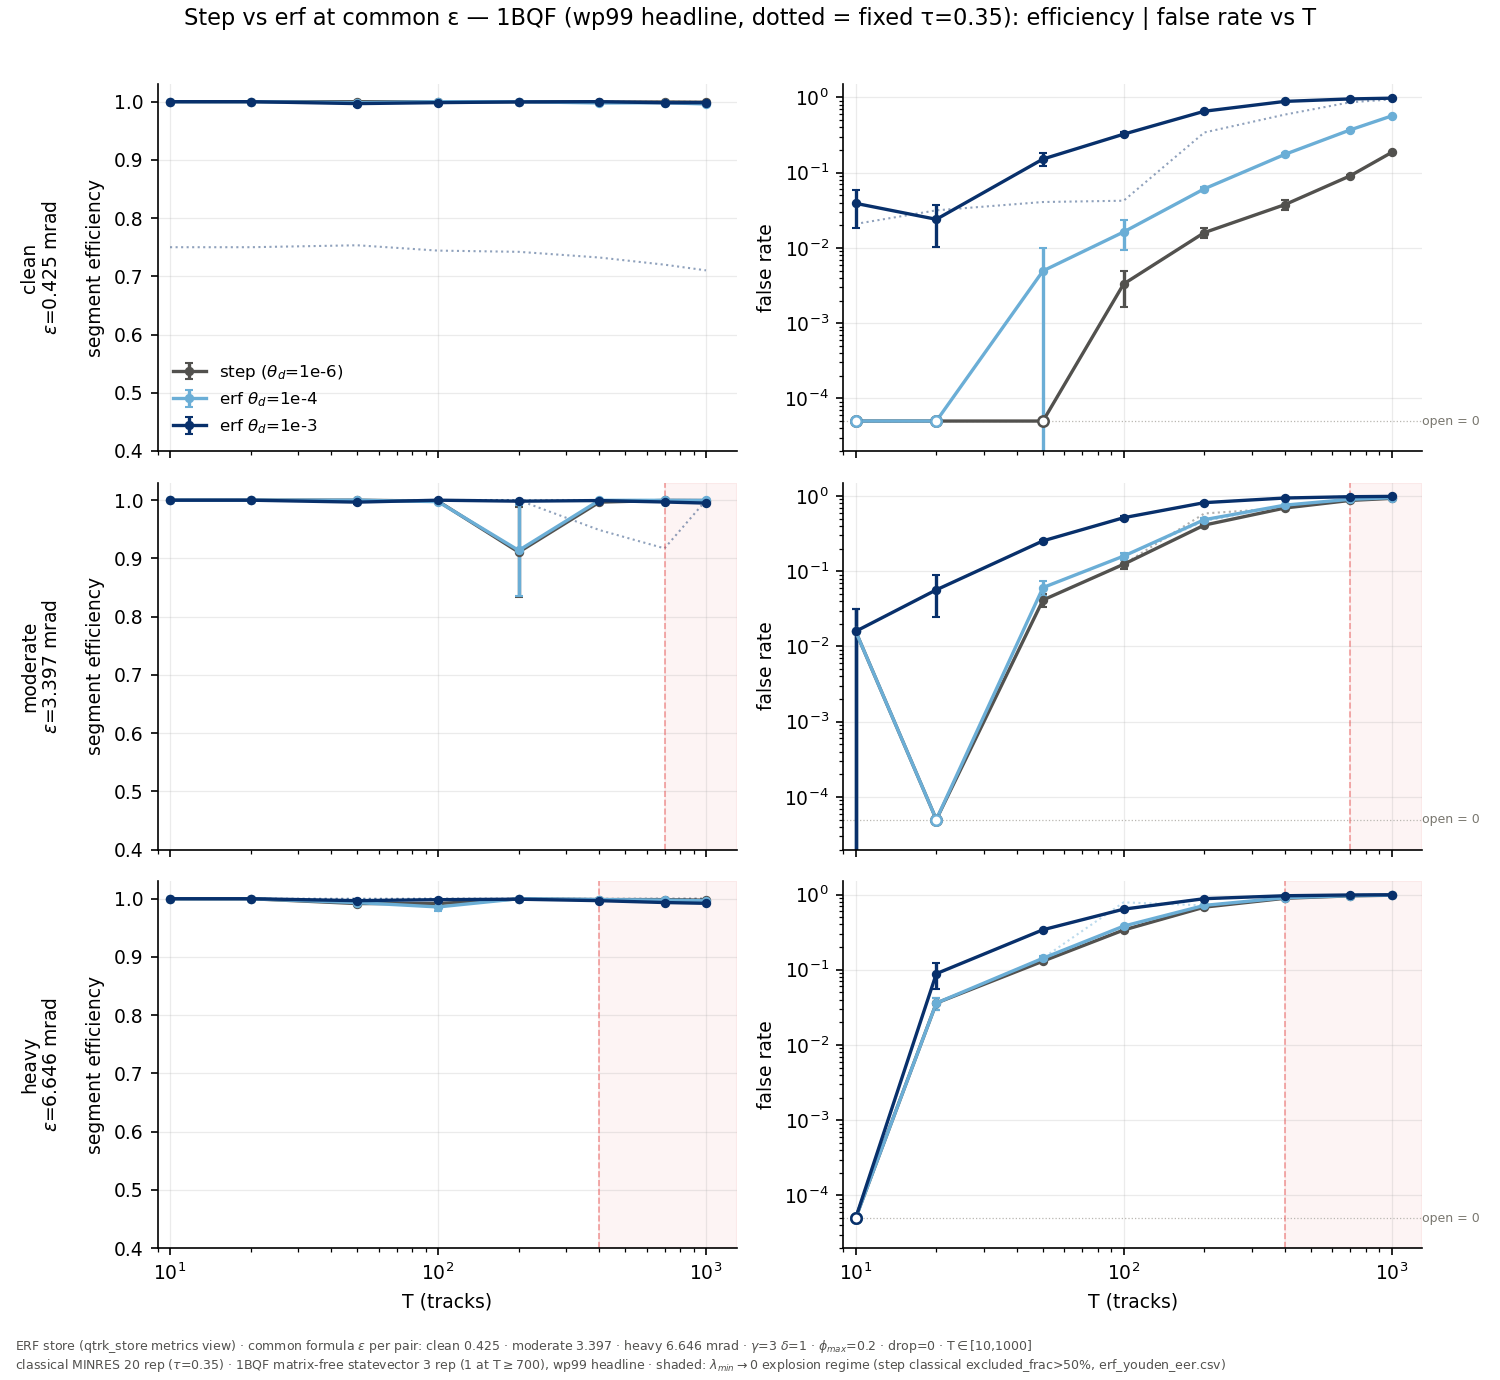
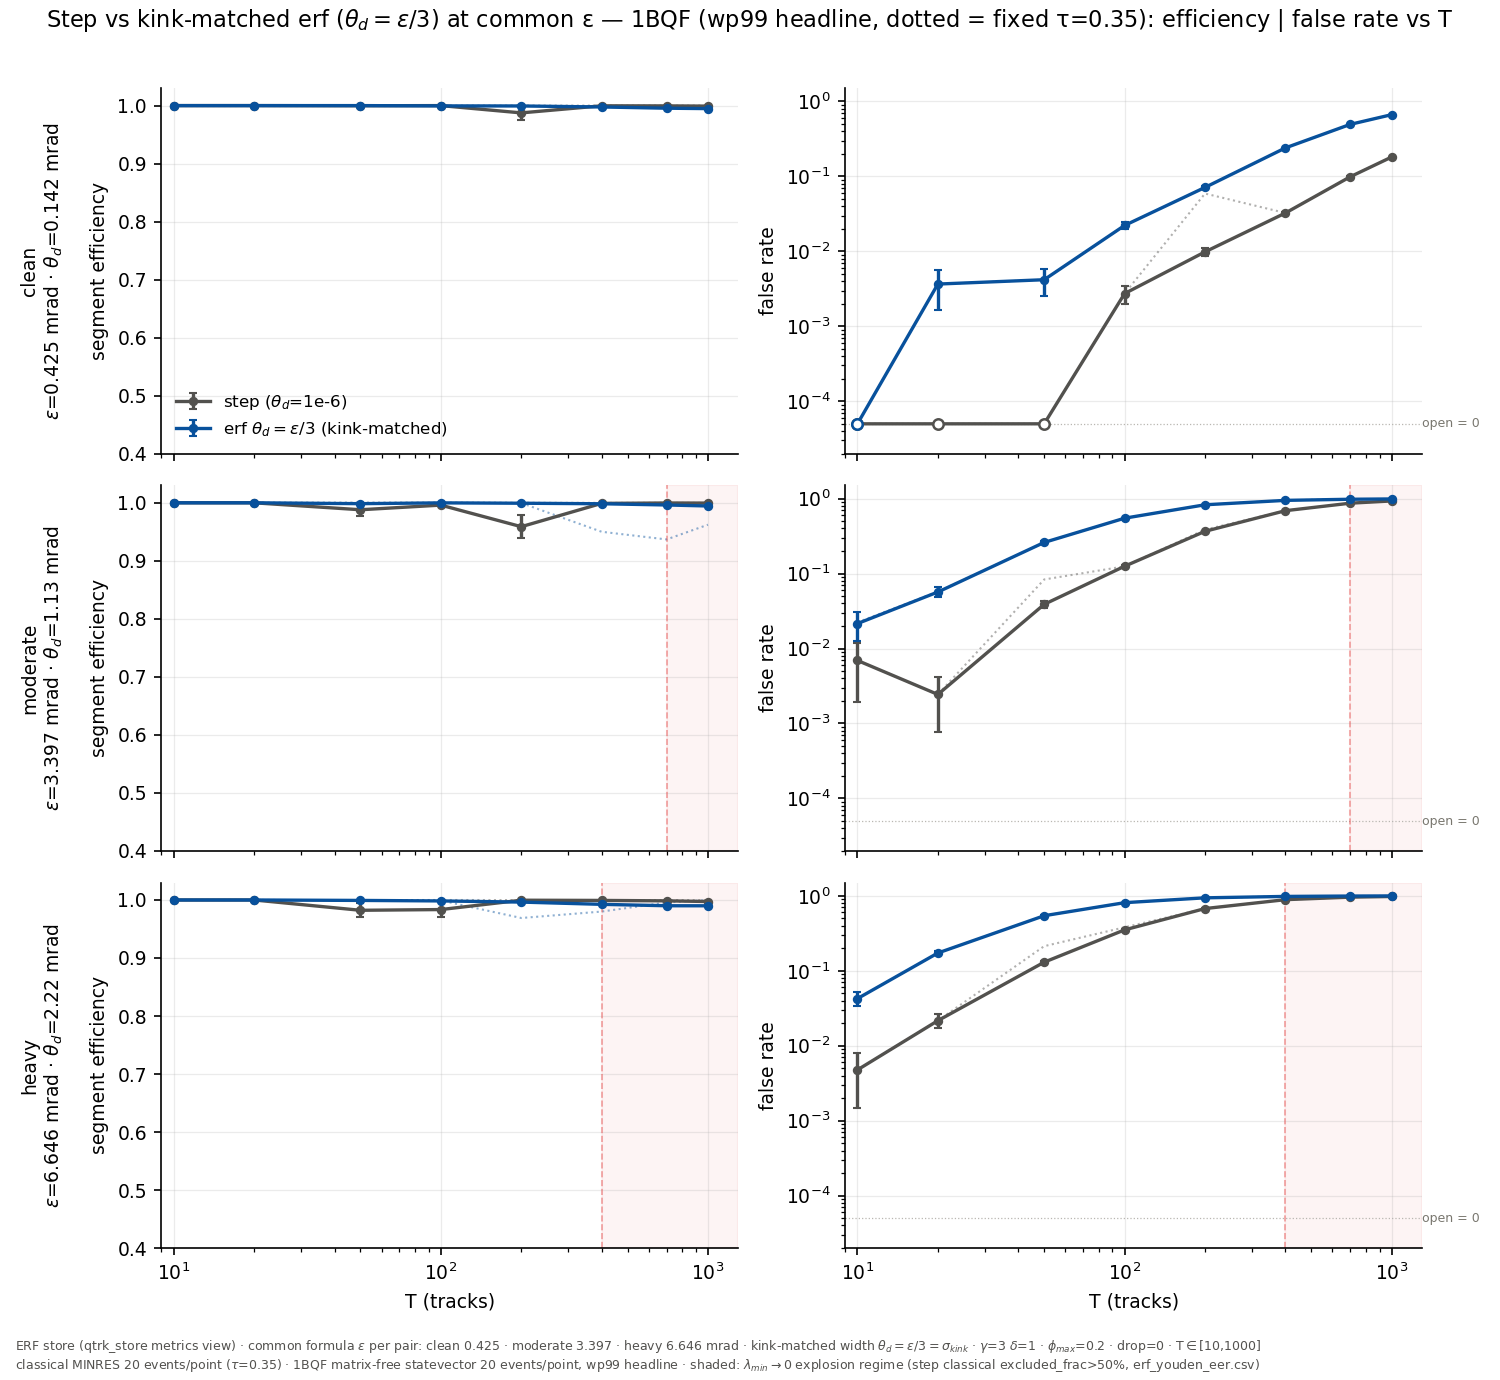
ERF: kink-matched width (theta_d = eps/3) + 20-rep quantum refresh
Step-vs-erf head-to-head refreshed at the physically meaningful erf width
theta_d = eps/3 = sigma_kink (the true RMS 3D kink angle), 20 events/point
for BOTH solvers (1BQF was 3). Manifest: 3 kink widths added to the ERF
erf_sigma grid (crossed with all pairs), quantum statevector reps 3 -> 20
uniform in T. Result: classical kink-erf >= step everywhere; 1BQF wp99
pays more false rate at every T/pair -> theta_d << eps rule confirmed.

diff --git a/Toy_Characterisation/ERF/step_vs_erf_store.py b/Toy_Characterisation/ERF/step_vs_erf_store.py
@@ -1,20 +1,21 @@
 #!/usr/bin/env python
-"""Step vs erf head-to-head at common epsilon: eff | far vs T, and sparsity scaling.
+"""Step vs kink-matched erf at common epsilon: eff | far vs T, and sparsity.
 
-Requested 2026-07-03: side-by-side segment efficiency and false rate with track
-count on the x-axis, step vs erf at a COMMON epsilon and reasonable erf widths,
-plus how the sparsity (A_nnz) scales for the two kernels.
+Requested 2026-07-03 (first pass, ad-hoc widths) and refined 2026-07-04: the
+erf kernel is shown at its PHYSICALLY MEANINGFUL width, theta_d = eps/3.  The
+acceptance is eps = 3*sigma_kink (compute_epsilon, scale=3), so eps/3 IS the
+true RMS 3D kink angle — the erf soft edge then matches the actual angular
+smearing of true-segment kinks instead of an arbitrary width.  Per noise pair
+(same formula epsilon for step and erf — common-epsilon by construction):
 
-Everything is read from the qtrk_store metrics view (per-event rows; A_nnz is
-recorded per solve, so sparsity needs no A rebuilds). Within each ERF noise pair
-the step regression point (theta_d = 1e-6) and every erf width share the SAME
-formula epsilon — the comparison is common-epsilon by construction:
-  clean    (sigma_scatt=1e-4, sigma_res=0)     -> eps = 0.425 mrad
-  moderate (3e-4, 0.01 mm)                     -> eps = 3.397 mrad
-  heavy    (5e-4, 0.02 mm)                     -> eps = 6.646 mrad
+  clean    (sigma_scatt=1e-4, sigma_res=0)   eps=0.425 mrad  theta_d=0.1416 mrad
+  moderate (3e-4, 0.01 mm)                   eps=3.397 mrad  theta_d=1.1322 mrad
+  heavy    (5e-4, 0.02 mm)                   eps=6.646 mrad  theta_d=2.2153 mrad
 
-Kernels shown: step (theta_d=1e-6) vs erf theta_d = 1e-4 ("quantum pipeline"
-width) and 1e-3 ("resolution recovery" width).
+Data: 20 events per point for BOTH solvers (2026-07-04 20-rep quantum campaign;
+the first pass had only 3 quantum events per point).  Everything is read from
+the qtrk_store metrics view; A_nnz is recorded per solve, so sparsity needs no
+A rebuilds.
 
 Conventions: classical at the gamma-aware absolute tau = 0.35; 1BQF headline at
 the efficiency-first wp99 working point (fixed-tau curve kept faded, per the
@@ -28,6 +29,7 @@ figures/erf_sparsity_scaling.png, results/erf_stepvserf_summary.csv.
 from __future__ import annotations
 
 import os
+import re
 from pathlib import Path
 
 import numpy as np
@@ -42,20 +44,23 @@ HERE = Path(__file__).resolve().parent
 FIGS = HERE / "figures"
 RES = HERE / "results"
 
-PAIRS = [(1e-4, 0.0, "clean", 0.425), (3e-4, 0.01, "moderate", 3.397),
-         (5e-4, 0.02, "heavy", 6.646)]
-KERNELS = [(1e-6, "step ($\\theta_d$=1e-6)", "#52514e", "-"),
-           (1e-4, "erf $\\theta_d$=1e-4", "#6baed6", "-"),
-           (1e-3, "erf $\\theta_d$=1e-3", "#08306b", "-")]
+# (sigma_scatt, sigma_res, label, eps [mrad], kink width theta_d = eps/3)
+PAIRS = [(1e-4, 0.0, "clean", 0.425, 1.4159802e-4),
+         (3e-4, 0.01, "moderate", 3.397, 1.1322446e-3),
+         (5e-4, 0.02, "heavy", 6.646, 2.2153451e-3)]
+
+STEP_TD = 1e-6                      # step reference (erf at negligible width)
+C_STEP, C_KINK = "#52514e", "#08519c"
 
 FAR_FLOOR = 5e-5   # log-axis display floor; a measured far=0 sits here as an OPEN marker
 
 FOOT = (r"ERF store (qtrk_store metrics view) · common formula $\varepsilon$ per pair: "
-        "clean 0.425 · moderate 3.397 · heavy 6.646 mrad · "
-        r"$\gamma$=3 $\delta$=1 · $\phi_{max}$=0.2 · drop=0 · T$\in$[10,1000]"
+        "clean 0.425 · moderate 3.397 · heavy 6.646 mrad · kink-matched width "
+        r"$\theta_d=\varepsilon/3=\sigma_{kink}$ · $\gamma$=3 $\delta$=1 · "
+        r"$\phi_{max}$=0.2 · drop=0 · T$\in$[10,1000]"
         "\n"
-        "classical MINRES 20 rep ($\\tau$=0.35) · 1BQF matrix-free statevector 3 rep "
-        "(1 at T$\\geq$700), wp99 headline · shaded: $\\lambda_{min}\\to0$ explosion regime "
+        "classical MINRES 20 events/point ($\\tau$=0.35) · 1BQF matrix-free statevector "
+        "20 events/point, wp99 headline · shaded: $\\lambda_{min}\\to0$ explosion regime "
         "(step classical excluded_frac>50%, erf_youden_eer.csv)")
 
 plt.rcParams.update({
@@ -73,19 +78,33 @@ def footer(fig):
 def load_view():
     store = os.environ.get("QTRK_STORE", "/data/bfys/gscriven/qtrk_store")
     m = pd.read_csv(os.path.join(store, "manifest", "metrics.csv"))
-    erf = m[m.study == "ERF"].copy()
+    # membership via the `studies` column (token match), NOT `study`: shared
+    # cells are attributed to whichever study "owns" them and a `study==`
+    # filter silently drops them.
+    is_erf = m.studies.map(lambda s: "ERF" in re.split(r"[|,;\s]+", str(s)))
+    erf = m[is_erf].copy()
     erf["pair"] = [
-        next((lab for ss, sr, lab, _ in PAIRS
+        next((lab for ss, sr, lab, _, _ in PAIRS
               if abs(row.sigma_scatt - ss) < 1e-12 and abs(row.sigma_res - sr) < 1e-9), None)
         for row in erf.itertuples()]
     return erf
+
+
+def sel_width(df, td):
+    """Rows at erf width td (isclose: the kink widths are non-round floats)."""
+    return df[np.isclose(df.erf_sigma.values, td, rtol=1e-3)]
+
+
+def kernels_for(pair_kink_td):
+    return [(STEP_TD, "step ($\\theta_d$=1e-6)", C_STEP),
+            (pair_kink_td, "erf $\\theta_d=\\varepsilon/3$ (kink-matched)", C_KINK)]
 
 
 def explosion_onset():
     """Per pair: first T where the STEP classical excluded_frac exceeds 50%."""
     y = pd.read_csv(RES / "erf_youden_eer.csv")
     out = {}
-    for _, _, pair, _ in PAIRS:
+    for _, _, pair, _, _ in PAIRS:
         g = y[(y.pair == pair) & (y.solver == "classical") & (y.theta_d == 1e-6)
               ].sort_values("n_trk")
         hit = g[g.excluded_frac > 0.5]
@@ -94,27 +113,27 @@ def explosion_onset():
 
 
 def agg(df, cols):
-    g = df.groupby("n_trk")[cols].agg(["mean", "sem"])
-    return g
+    return df.groupby("n_trk")[cols].agg(["mean", "sem"])
 
 
 def plot_solver(erf, solver, headline_cols, faded_cols, fname, title):
     onset = explosion_onset()
     fig, axes = plt.subplots(3, 2, figsize=(10, 9.2), sharex=True)
-    for i, (ss, sr, pair, eps) in enumerate(PAIRS):
+    for i, (ss, sr, pair, eps, kink_td) in enumerate(PAIRS):
         ax_e, ax_f = axes[i]
-        for td, lab, color, ls in KERNELS:
-            g = erf[(erf.pair == pair) & (erf.solver == solver) & (erf.erf_sigma == td)]
+        sub = erf[(erf.pair == pair) & (erf.solver == solver)]
+        for td, lab, color in kernels_for(kink_td):
+            g = sel_width(sub, td)
             if not len(g):
                 continue
             ge = agg(g, list(dict.fromkeys(headline_cols + (faded_cols or []))))
             T = ge.index.values
             ec, fc = headline_cols
             ax_e.errorbar(T, ge[(ec, "mean")], yerr=ge[(ec, "sem")], color=color,
-                          ls=ls, marker="o", ms=3.5, lw=1.6, capsize=2, label=lab)
+                          marker="o", ms=3.5, lw=1.6, capsize=2, label=lab)
             fmean = ge[(fc, "mean")].values
             ax_f.errorbar(T, np.clip(fmean, FAR_FLOOR, None), yerr=ge[(fc, "sem")],
-                          color=color, ls=ls, marker="o", ms=3.5, lw=1.6, capsize=2)
+                          color=color, marker="o", ms=3.5, lw=1.6, capsize=2)
             # a measured 0 is data, not a gap: open marker pinned at the floor
             zero = fmean <= 0
             if zero.any():
@@ -129,7 +148,8 @@ def plot_solver(erf, solver, headline_cols, faded_cols, fname, title):
             for ax in (ax_e, ax_f):
                 ax.axvspan(onset[pair], 1300, color="#e34948", alpha=0.06, zorder=0)
                 ax.axvline(onset[pair], color="#e34948", lw=0.8, ls="--", alpha=0.5)
-        ax_e.set_ylabel(f"{pair}\n$\\varepsilon$={eps:g} mrad\n\nsegment efficiency")
+        ax_e.set_ylabel(f"{pair}\n$\\varepsilon$={eps:g} mrad · "
+                        f"$\\theta_d$={kink_td*1e3:.3g} mrad\n\nsegment efficiency")
         ax_f.set_ylabel("false rate")
         ax_e.set_ylim(0.4, 1.03)
         ax_f.set_yscale("log")
@@ -154,18 +174,19 @@ def plot_sparsity(erf):
     # one row per (ham, event): A_nnz identical across solvers -> dedupe
     d = erf.drop_duplicates(["event_key", "ham_key"])
     fig, axes = plt.subplots(1, 3, figsize=(11.8, 4.1))
-    # (a) nnz vs T ; (b) nnz / n_seg vs T ; (c) erf-to-step nnz ratio vs T
-    for ss, sr, pair, eps in PAIRS:
-        base = d[(d.pair == pair) & (d.erf_sigma == 1e-6)].groupby("n_trk").A_nnz.mean()
-        for td, lab, color, _ in KERNELS:
-            g = d[(d.pair == pair) & (d.erf_sigma == td)]
+    # (a) nnz vs T ; (b) nnz / n_seg vs T ; (c) kink-erf-to-step nnz ratio vs T
+    for ss, sr, pair, eps, kink_td in PAIRS:
+        dp = d[d.pair == pair]
+        base = sel_width(dp, STEP_TD).groupby("n_trk").A_nnz.mean()
+        ls = {"clean": ":", "moderate": "--", "heavy": "-"}[pair]
+        for td, lab, color in kernels_for(kink_td):
+            g = sel_width(dp, td)
             if not len(g):
                 continue
             gg = g.groupby("n_trk").agg(nnz=("A_nnz", "mean"), nseg=("n_seg", "mean"))
-            ls = {"clean": ":", "moderate": "--", "heavy": "-"}[pair]
             axes[0].plot(gg.index, gg.nnz, ls, color=color, marker="o", ms=3, lw=1.4)
             axes[1].plot(gg.index, gg.nnz / gg.nseg, ls, color=color, marker="o", ms=3, lw=1.4)
-            if td != 1e-6:
+            if td != STEP_TD:
                 ratio = (gg.nnz / base.reindex(gg.index)).dropna()
                 axes[2].plot(ratio.index, ratio.values, ls, color=color, marker="o",
                              ms=3, lw=1.4)
@@ -176,17 +197,19 @@ def plot_sparsity(erf):
                  rotation=18)
     for ax, ttl, ylab in ((axes[0], "A_nnz vs T", "A_nnz"),
                           (axes[1], "fill: A_nnz / n_seg", "A_nnz / n_seg"),
-                          (axes[2], "erf-to-step nnz ratio", "nnz(erf) / nnz(step)")):
+                          (axes[2], "kink-erf-to-step nnz ratio", "nnz(erf) / nnz(step)")):
         ax.set_xscale("log")
         ax.set_yscale("log")
         ax.set_xlabel("T (tracks)")
         ax.set_title(ttl, fontsize=9.5)
         ax.set_ylabel(ylab)
-    handles = ([Line2D([], [], color=c, lw=1.6, label=lab) for _, lab, c, _ in KERNELS]
+    handles = ([Line2D([], [], color=C_STEP, lw=1.6, label="step"),
+                Line2D([], [], color=C_KINK, lw=1.6, label="erf $\\theta_d=\\varepsilon/3$")]
                + [Line2D([], [], color="#52514e", ls=ls, lw=1.2, label=p)
                   for p, ls in (("clean", ":"), ("moderate", "--"), ("heavy", "-"))])
     axes[0].legend(handles=handles, fontsize=6.8, loc="upper left", ncol=2)
-    fig.suptitle("Sparsity scaling, step vs erf (common ε per pair; A_nnz from the store view)", y=0.98)
+    fig.suptitle("Sparsity scaling, step vs kink-matched erf (common ε per pair; "
+                 "A_nnz from the store view)", y=0.98)
     fig.tight_layout(rect=(0, 0.05, 1, 0.92))
     footer(fig)
     fig.savefig(FIGS / "erf_sparsity_scaling.png")
@@ -198,25 +221,28 @@ def main():
     print(f"[view] ERF rows: {len(erf)}")
     plot_solver(erf, "classical", ["segment_efficiency", "segment_false_rate"], None,
                 "erf_stepvserf_classical.png",
-                "Step vs erf at common ε — classical (τ=0.35): efficiency | false rate vs T")
+                "Step vs kink-matched erf ($\\theta_d=\\varepsilon/3$) at common ε — "
+                "classical (τ=0.35): efficiency | false rate vs T")
     plot_solver(erf, "quantum",
                 ["segment_efficiency_wp", "segment_false_rate_wp"],
                 ["segment_efficiency", "segment_false_rate"],
                 "erf_stepvserf_quantum.png",
-                "Step vs erf at common ε — 1BQF (wp99 headline, dotted = fixed τ=0.35): efficiency | false rate vs T")
+                "Step vs kink-matched erf ($\\theta_d=\\varepsilon/3$) at common ε — "
+                "1BQF (wp99 headline, dotted = fixed τ=0.35): efficiency | false rate vs T")
     plot_sparsity(erf)
     # tidy summary CSV
     rows = []
     for solver in ("classical", "quantum"):
-        for ss, sr, pair, eps in PAIRS:
-            for td, *_ in KERNELS:
-                g = erf[(erf.pair == pair) & (erf.solver == solver) & (erf.erf_sigma == td)]
+        for ss, sr, pair, eps, kink_td in PAIRS:
+            sub = erf[(erf.pair == pair) & (erf.solver == solver)]
+            for (td, _, _), kname in zip(kernels_for(kink_td), ("step", "erf_kink")):
+                g = sel_width(sub, td)
                 if not len(g):
                     continue
                 for T, gg in g.groupby("n_trk"):
                     rows.append(dict(
-                        pair=pair, epsilon_mrad=eps, theta_d=td, solver=solver, n_trk=T,
-                        n_events=len(gg),
+                        pair=pair, epsilon_mrad=eps, kernel=kname, theta_d=td,
+                        solver=solver, n_trk=T, n_events=len(gg),
                         eff=gg.segment_efficiency.mean(), eff_sem=gg.segment_efficiency.sem(),
                         far=gg.segment_false_rate.mean(), far_sem=gg.segment_false_rate.sem(),
                         eff_wp=gg.segment_efficiency_wp.mean(), far_wp=gg.segment_false_rate_wp.mean(),
@@ -228,8 +254,8 @@ def main():
     # headline print
     h = out[(out.solver == "classical") & (out.n_trk == 200)]
     for _, r in h.iterrows():
-        print(f"  T=200 {r['pair']:9} td={r.theta_d:g}: eff={r.eff:.3f} far={r.far:.3f} "
-              f"nnz={r.nnz:,.0f} fill={r.fill:.2f}")
+        print(f"  T=200 {r['pair']:9} {r['kernel']:8} td={r.theta_d:g}: "
+              f"eff={r.eff:.3f} far={r.far:.3f} nnz={r.nnz:,.0f} fill={r.fill:.2f}")
     print("[figs] 3 figures ->", FIGS)
 
 

diff --git a/Toy_Characterisation/_shared/qtrk_pipeline/manifest.py b/Toy_Characterisation/_shared/qtrk_pipeline/manifest.py
@@ -262,10 +262,25 @@ def standard_specs() -> list[StudySpec]:
         phi_max=[0.2, 0.1, 0.05, 0.02, 0.01], sigma_scatt=[1e-4, 3e-4],
         kernel="step",
     )
+    # ERF: the kink-matched width theta_d = eps/3 is the physically meaningful
+    # soft-edge width (eps = 3*sigma_kink, so eps/3 IS the true RMS 3D kink
+    # angle — the erf blur then matches the actual angular smearing).  One such
+    # width per noise pair, swept across ALL pairs so the theta_d/eps ratio
+    # axis is sampled on both sides of 1/3 (2026-07-04).
+    _erf_pairs = [(1e-4, 0.0), (3e-4, 0.01), (5e-4, 0.02)]
+    from lhcb_velo_toy.analysis import compute_epsilon as _ceps
+    _kink_widths = [_ceps(sr, ss) / 3.0 for ss, sr in _erf_pairs]
     erf = StudySpec(
         name="ERF",
-        noise_pairs=[(1e-4, 0.0), (3e-4, 0.01), (5e-4, 0.02)],   # paired, not product
-        kernel="erf", erf_sigma=[1e-6, 1e-5, 5e-5, 1e-4, 5e-4, 1e-3],
+        noise_pairs=_erf_pairs,                                  # paired, not product
+        kernel="erf",
+        erf_sigma=sorted([1e-6, 1e-5, 5e-5, 1e-4, 5e-4, 1e-3] + _kink_widths),
+        # 20-rep quantum, uniform in T (was 3): statevector is exact, but
+        # event-to-event variance dominates the eff/far-vs-T curves and 3
+        # events per point left them visibly noisy; the matrix-free engine is
+        # seconds/solve at any T so full-rep coverage is cheap (2026-07-04).
+        quantum_reps_by_readout={"statevector": 20, "sampling": 20},
+        quantum_sv_hiT_reps=20,
     )
     # Verify: baseline (formula) + a gamma sweep, drop in {0, 0.01}.
     verify = StudySpec(
